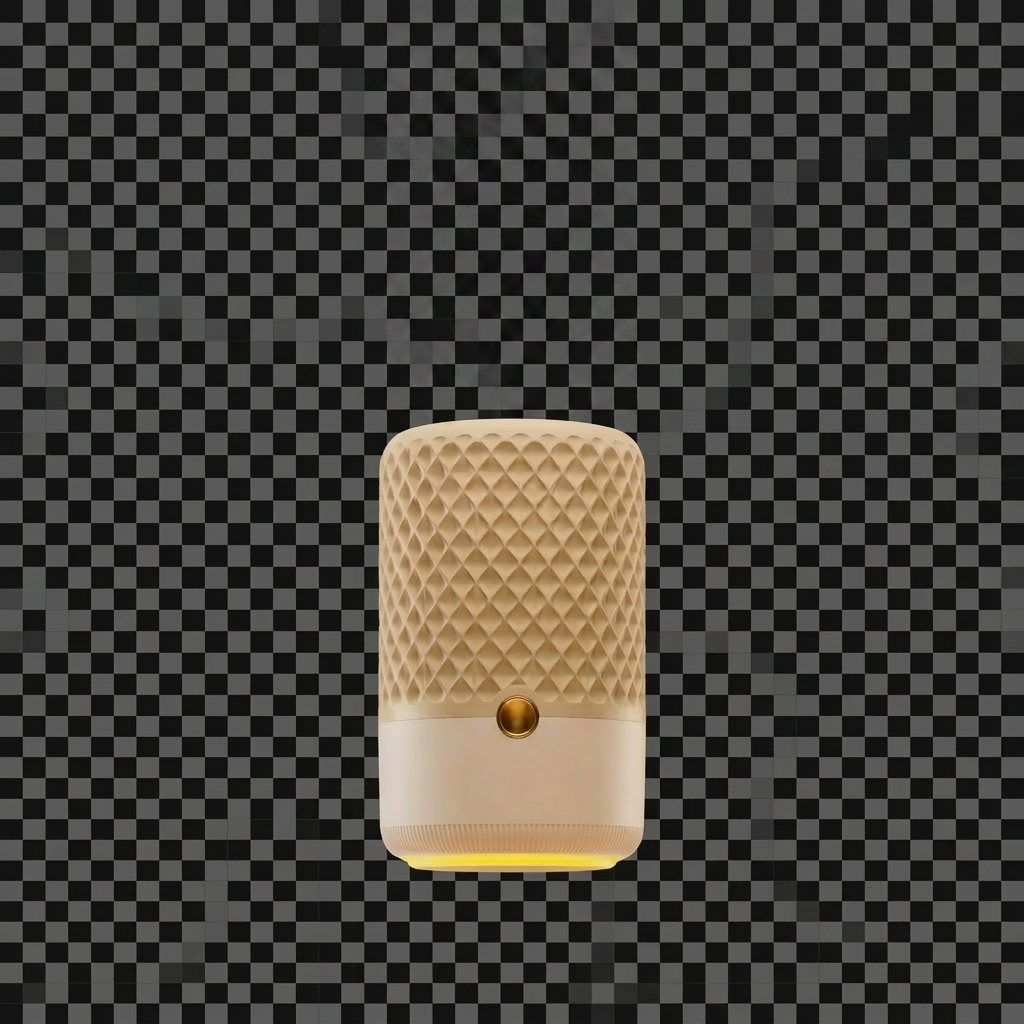
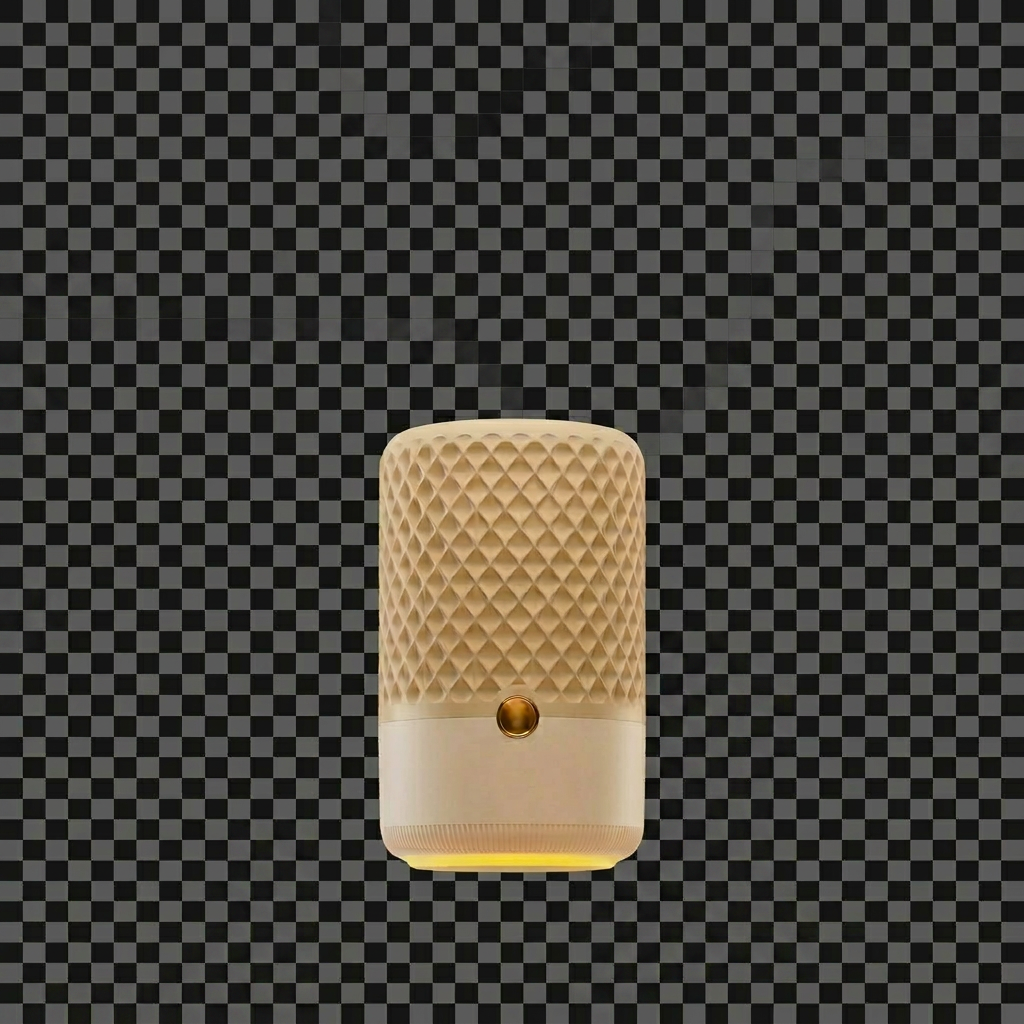
Changes

diff --git a/src/components/sections/RangeRationalizationSection.tsx b/src/components/sections/RangeRationalizationSection.tsx
@@ -1,7 +1,7 @@
 import React from 'react';
 import { motion } from 'framer-motion';
 import { Layers, Rocket, CheckCircle, ArrowRight, Gift, Palette } from 'lucide-react';
-import rangeSimplificationImg from '@/assets/tolia-diffuser-straight.png';
+import rangeSimplificationImg from '@/assets/tolia-diffuser-clean.png';
 import customizationImg from '@/assets/customization-options.png';
 import { Button } from '@/components/ui/button';
 import { trackCTAClick } from '@/lib/tracking';
